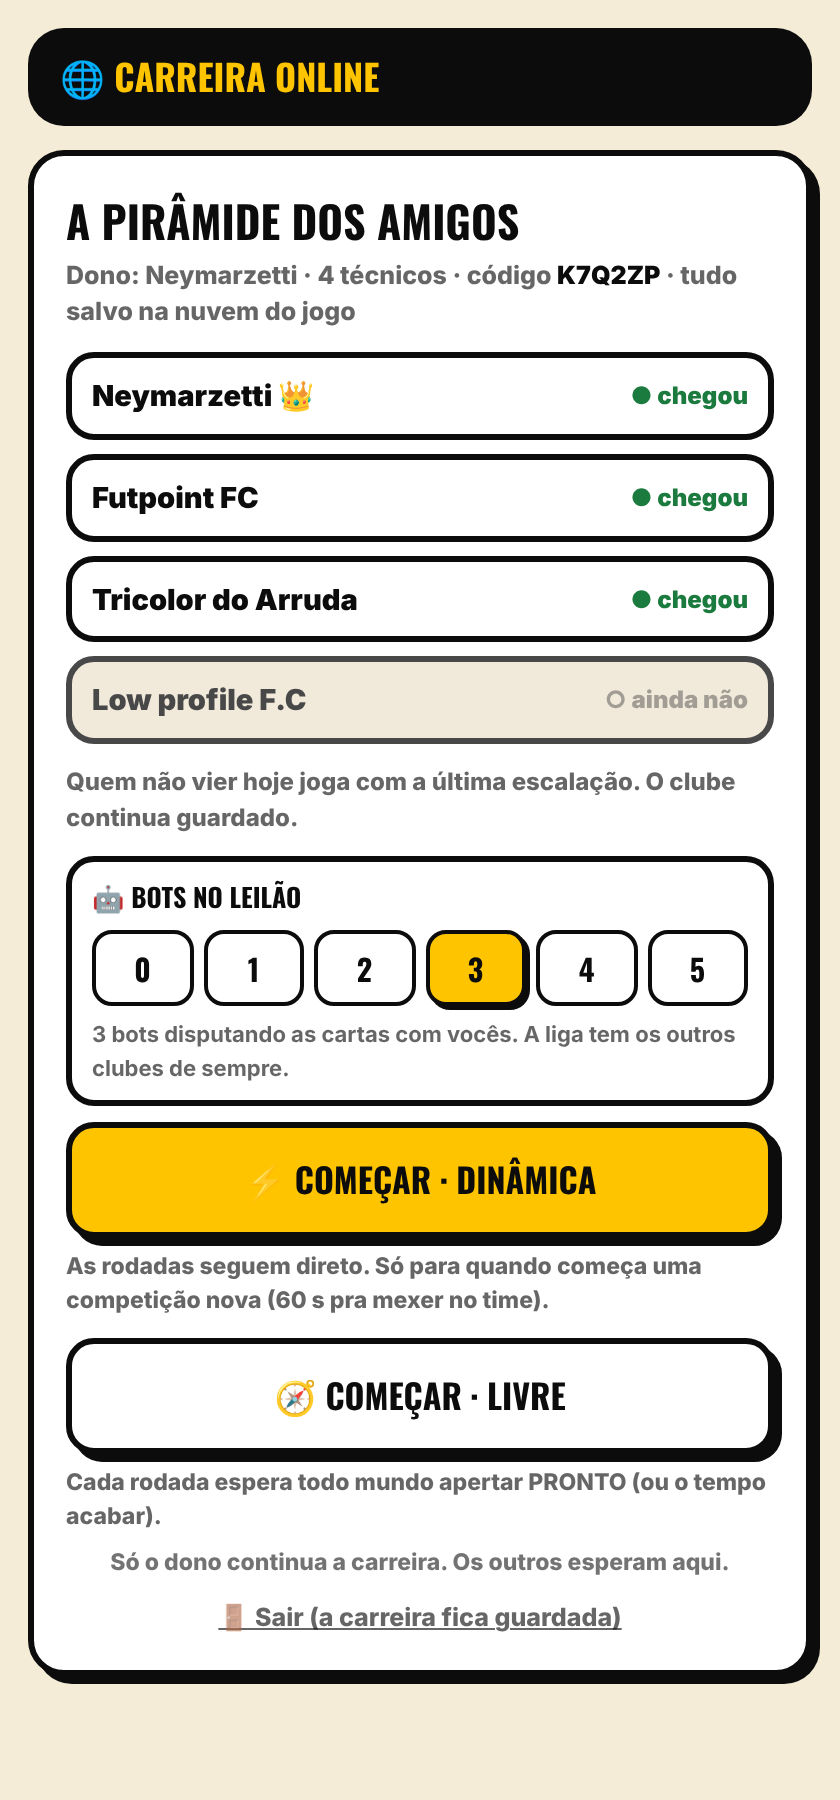
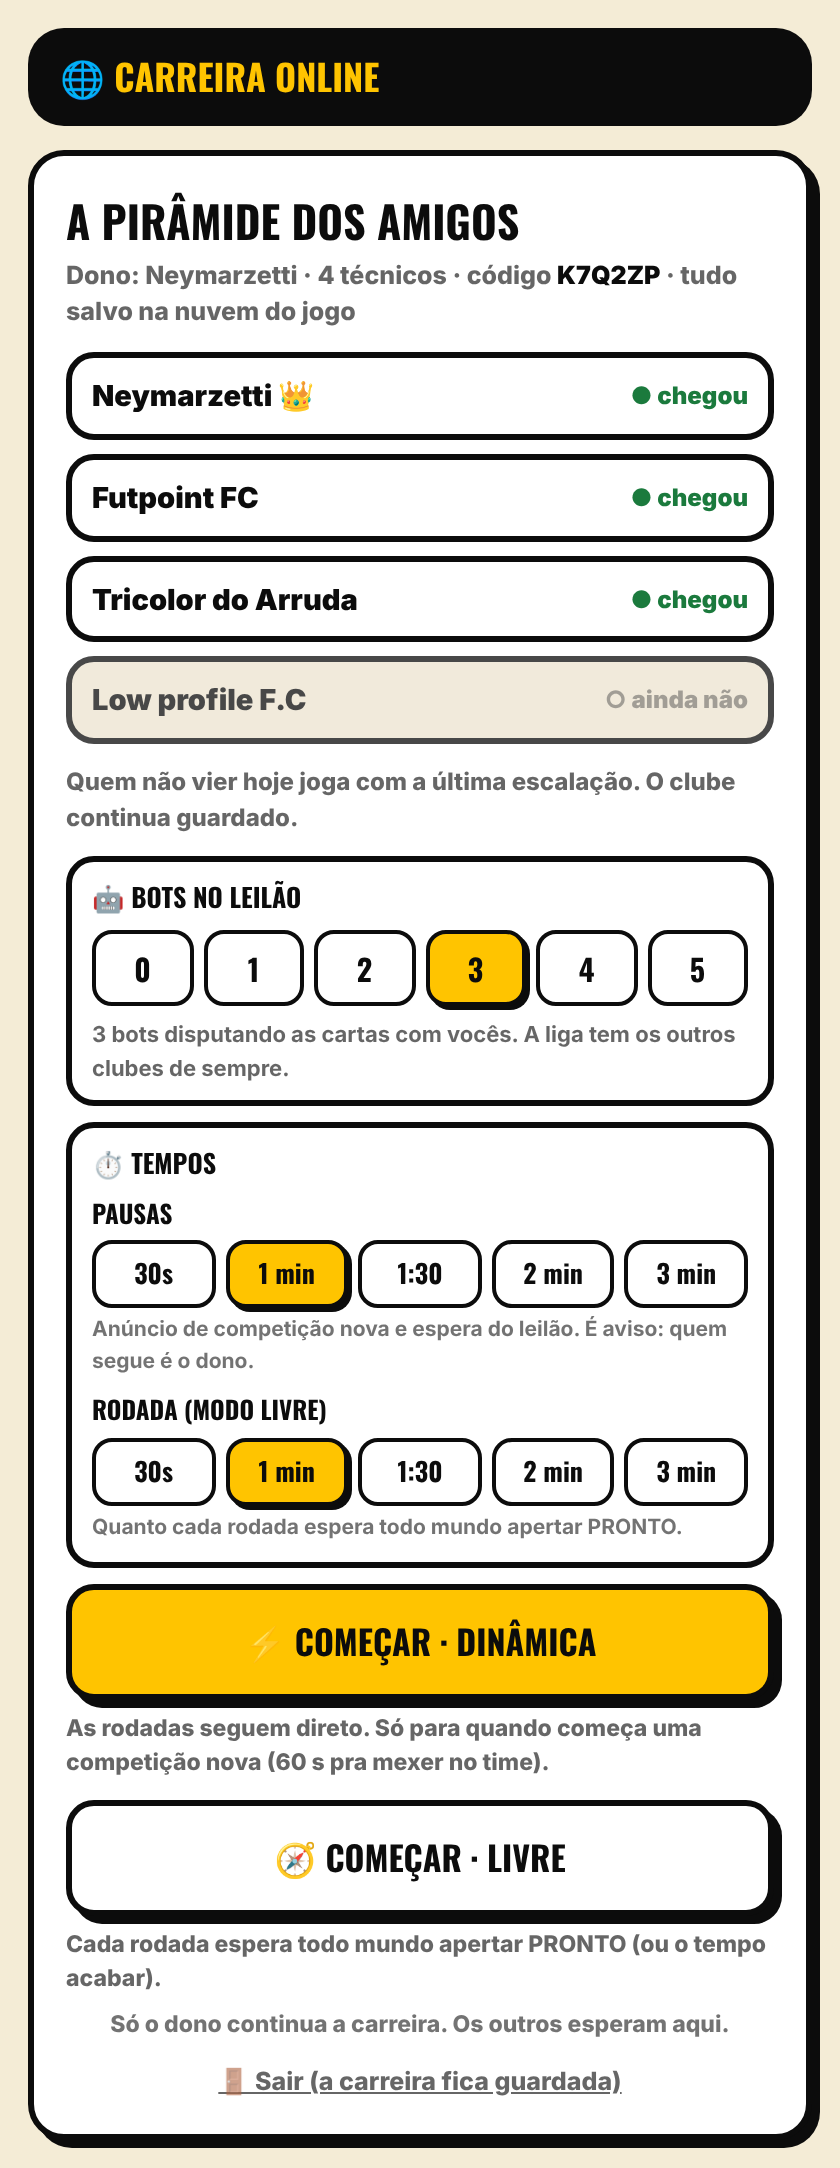
Carreira online: dono escolhe os tempos (pausas e rodada do modo Livre) na largada e depois, nas configurações dele
Claude-Session: https://claude.ai/code/session_018Ap1zPCMVL9XeZJN3u93ZA

diff --git a/src/escalacao/co2-telas.tsx b/src/escalacao/co2-telas.tsx
@@ -9,7 +9,7 @@ import type { EscState } from './types'
 import {
   useCo2, co2Abrir, co2Fechar, co2Criar, co2Entrar, co2MinhasSalas, co2Continuar, co2Mundo, co2Envia, co2PodeCriar,
   co2LeGavetas, co2Gaveta, co2Pronto, co2Comecar, co2Apito, co2Ritmo, co2EncerrarDia, co2SalvaPrivado, co2LePrivado, co2Agora,
-  type Co2Sala,
+  type Co2Sala, type Co2Mundo, TEMPOS_OPCOES, tempoPausa, tempoRodada,
 } from './co2'
 import { minhaGaveta, co2Fechamento, type EntradasMundo, type GavetaPublica, type Fechamento } from './carreira-online-v2'
 import { useMotor2Carreira, copaBrasilLiberada } from './sport'
@@ -88,6 +88,7 @@ export function Co2Espera({ salaId, onSair }: { salaId: string; onSair: () => vo
   const [indo, setIndo] = useState(false)
   // 🤖 26/11 (Diego: *"opção nas config do host p ele decidir se deixa nenhum bot ou deixa até 5 bots"*): quantos bots disputam o leilão
   const [bots, setBots] = useState(3)
+  const [tempos, setTempos] = useState<{ pausa: number; rodada: number }>({ pausa: 60, rodada: 60 })
   useEffect(() => { void co2Abrir(salaId) }, [salaId])
   const sala = sn.sala
   const souDono = !!sala && sala.dono === sn.uid
@@ -123,7 +124,7 @@ export function Co2Espera({ salaId, onSair }: { salaId: string; onSair: () => vo
         const ordem = clubes.map(c => c.user_id)
         const eu = ordem.indexOf(sn.uid ?? '')
         dispatch({ type: 'START_CAREER_SOLO', teamName: clubes[eu]?.nome ?? 'Meu Time', formation: '4-3-3', rivals: bots, co2: { sala: sala.id, nomes: clubes.map(c => c.nome), assento: eu } })
-        await co2Mundo('virada', 1, 0, { ordem, v: 1, modo, bots })
+        await co2Mundo('virada', 1, 0, { ordem, v: 1, modo, bots, tempos })
         return
       }
       const sv = local ?? await lePrivado()
@@ -174,8 +175,9 @@ export function Co2Espera({ salaId, onSair }: { salaId: string; onSair: () => vo
                 </div>
                 <p style={{ fontWeight: 700, fontSize: 11, margin: '6px 0 0', color: 'rgba(0,0,0,.6)' }}>{bots === 0 ? tr('Sem bots: o leilão é só entre vocês.', 'No bots: the auction is just between you.') : tr(`${bots} bot${bots > 1 ? 's' : ''} disputando as cartas com vocês. A liga tem os outros clubes de sempre.`, `${bots} bot${bots > 1 ? 's' : ''} bidding against you. The league has the usual other clubs.`)}{bots === 0 && clubes.length === 2 ? tr(' Com 2 técnicos, sobra muita carta pro Monte.', ' With 2 managers, lots of cards go to the pile.') : ''}</p>
               </div>
+              <Co2Tempos valor={tempos} onMuda={setTempos} />
               <button disabled={indo} onClick={() => void comecar('dinamica')} style={botao(GOLD)}>⚡ {tr('Começar · Dinâmica', 'Start · Dynamic')}</button>
-              <p style={{ fontWeight: 800, fontSize: 11.5, margin: '-2px 0 2px', color: 'rgba(0,0,0,.6)' }}>{tr('As rodadas seguem direto. Só para quando começa uma competição nova (60 s pra mexer no time).', 'Rounds run back to back. Only pauses when a new competition starts (60 s to tweak the team).')}</p>
+              <p style={{ fontWeight: 800, fontSize: 11.5, margin: '-2px 0 2px', color: 'rgba(0,0,0,.6)' }}>{tr(`As rodadas seguem direto. Só para quando começa uma competição nova (${tempos.pausa} s pra mexer no time).`, `Rounds run back to back. Only pauses when a new competition starts (${tempos.pausa} s to tweak the team).`)}</p>
               <button disabled={indo} onClick={() => void comecar('livre')} style={botao('#fff')}>🧭 {tr('Começar · Livre', 'Start · Free')}</button>
               <p style={{ fontWeight: 800, fontSize: 11.5, margin: '-2px 0 0', color: 'rgba(0,0,0,.6)' }}>{tr('Cada rodada espera todo mundo apertar PRONTO (ou o tempo acabar).', 'Each round waits for everyone to hit READY (or the time to run out).')}</p>
             </div>
@@ -207,7 +209,6 @@ async function lePrivado(): Promise<EscState | null> {
 }
 
 // ═══ DENTRO DA TEMPORADA: a barra do PRONTO + o motor que segue o relógio do dono ═══════════════════════════════════
-const PRAZO_S = 60
 const PRAZO_DINAMICA_S = 15 // o banco aceita no mínimo 15 s; na Dinâmica o dono começa logo que a rodada anterior terminou de animar
 
 export function Co2Temporada({ entradasLocais, round, roundReady, seasonOver, onEscalacao }: {
@@ -278,7 +279,7 @@ export function Co2Temporada({ entradasLocais, round, roundReady, seasonOver, on
   // 🏁 quem comanda: rodada terminou de animar → apito (próxima rodada entra no PREPARO)
   useEffect(() => {
     if (!comanda || !sala || sala.fase !== 'jogando' || !roundReady || round !== sala.rodada + 1) return
-    void co2Apito(sala.rodada + 1, dinamica ? PRAZO_DINAMICA_S : PRAZO_S)
+    void co2Apito(sala.rodada + 1, dinamica ? PRAZO_DINAMICA_S : tempoRodada(co2Agora().mundo))
   }, [comanda, sala, roundReady, round, dinamica])
 
   // ⏱ quem comanda: todo mundo PRONTO (ou acabou o tempo, no automático) → começa
@@ -365,6 +366,7 @@ export function Co2Temporada({ entradasLocais, round, roundReady, seasonOver, on
             {!dinamica && <button onClick={() => void co2Ritmo(!sala.auto, sala.velocidade, sala.pausado)} style={{ ...botao('#fff'), fontSize: 12, padding: '8px' }}>{sala.auto ? tr('Automático ligado', 'Auto on') : tr('Automático desligado', 'Auto off')}</button>}
             <button onClick={() => void co2EncerrarDia()} disabled={sala.fase !== 'preparo'} style={{ ...botao('#fff'), fontSize: 12, padding: '8px' }}>🌙 {tr('Encerrar o dia', 'End the day')}</button>
           </div>
+          <Co2TemposDono />
           <p style={{ fontWeight: 800, fontSize: 11, margin: '6px 0 0', color: 'rgba(0,0,0,.55)' }}>{dinamica ? tr('⚡ Dinâmica · as rodadas seguem direto. Pausar segura a carreira pra todo mundo.', '⚡ Dynamic · rounds run back to back. Pause holds the career for everyone.') : sala.auto ? tr('Automático ligado · quem não apertar joga com a escalação que já está.', 'Auto on · whoever doesn\'t press plays with the current lineup.') : tr('Automático desligado · a rodada só começa quando você apertar.', 'Auto off · the round only starts when you press.')}</p>
         </div>
       )}
@@ -388,7 +390,7 @@ export function useCo2FimDaVirada() {
     const poeM2 = m2Liberado && !!mm && mm.m2 == null
     const poeFim = !!mm && !mm.fim // 🏆 26/11: a regra da copa do fim de temporada sai do DONO, igual pra todo aparelho
     const carimbo = mm && (poeM2 || poeFim) ? { ...mm, ...(poeM2 ? { m2: state.seasonNo ?? 1 } : {}), ...(poeFim ? { fim: { copaBR: copaBrasilLiberada() } } : {}) } : null
-    void co2Mundo('preparo', state.seasonNo ?? 1, 0, carimbo, mm?.modo === 'dinamica' ? 60 : 90) // ⚡ Dinâmica: 60 s de anúncio na estreia (aviso; o dono segue)
+    void co2Mundo('preparo', state.seasonNo ?? 1, 0, carimbo, mm?.modo === 'dinamica' ? tempoPausa(mm) : Math.max(90, tempoRodada(mm))) // ⚡ Dinâmica: o tempo de pausa que o dono escolheu (aviso; o dono segue)
   }, [state.co2?.comanda, state.screen, sn.sala?.fase, state.seasonNo, m2Liberado, state.round])
 }
 
@@ -443,7 +445,7 @@ export function Co2ViradaEspera() {
   useEffect(() => {
     if (!comanda || !dinamica || !sala || sala.fase !== 'virada' || sala.prazo || relogioRef.current) return
     relogioRef.current = true
-    void co2Mundo('virada', null, null, null, 60)
+    void co2Mundo('virada', null, null, null, tempoPausa(sn.mundo))
   }, [comanda, dinamica, sala])
   const restante = dinamica && sala?.prazo ? Math.max(0, Math.round((new Date(sala.prazo).getTime() - agora) / 1000)) : null
   const ordem = sn.mundo?.ordem ?? []
@@ -540,6 +542,52 @@ export function Co2Anuncio({ restante, comanda, onSeguir }: { restante: number |
       <div style={{ display: 'inline-block', background: '#fff', color: INK, border: `3px solid ${INK}`, borderRadius: 14, boxShadow: `3px 3px 0 ${GOLD}`, padding: '4px 18px', ...OSWALD, fontWeight: 900, fontSize: 34 }}>{mm}</div>
       <p style={{ fontWeight: 800, fontSize: 12.5, margin: '10px 0 12px', color: 'rgba(255,255,255,.85)' }}>{tr('Dá tempo de arrumar o time nas abas. ', 'There\'s time to sort your team in the tabs. ')}{comanda ? tr('Você começa a temporada quando quiser.', 'You start the season whenever you want.') : tr('Quem começa é o dono.', 'The owner starts it.')}</p>
       {botaoDono}
+    </div>
+  )
+}
+
+// ⏱ 27/11 (Diego: *"coloque também nas configurações do host p ele escolher os tempos"*)
+export function Co2Tempos({ valor, onMuda }: { valor: { pausa: number; rodada: number }; onMuda: (v: { pausa: number; rodada: number }) => void }) {
+  const linha = (titulo: string, sub: string, k: 'pausa' | 'rodada') => (
+    <div style={{ marginBottom: 8 }}>
+      <p style={{ ...OSWALD, fontWeight: 900, fontSize: 12.5, margin: '0 0 4px', textTransform: 'uppercase' }}>{titulo}</p>
+      <div style={{ display: 'grid', gridTemplateColumns: `repeat(${TEMPOS_OPCOES.length}, 1fr)`, gap: 5 }}>
+        {TEMPOS_OPCOES.map(n => (
+          <button key={n} onClick={() => onMuda({ ...valor, [k]: n })} style={{ border: `2.5px solid ${INK}`, borderRadius: 10, padding: '5px 0', fontWeight: 900, fontSize: 13, background: valor[k] === n ? GOLD : '#fff', color: INK, cursor: 'pointer', boxShadow: valor[k] === n ? `2px 2px 0 ${INK}` : 'none', ...OSWALD }}>{n < 60 ? `${n}s` : n % 60 ? `${Math.floor(n / 60)}:${n % 60}` : `${n / 60} min`}</button>
+        ))}
+      </div>
+      <p style={{ fontWeight: 700, fontSize: 10.5, margin: '3px 0 0', color: 'rgba(0,0,0,.55)' }}>{sub}</p>
+    </div>
+  )
+  return (
+    <div style={{ border: `3px solid ${INK}`, borderRadius: 14, padding: '8px 10px 2px', background: '#fff' }}>
+      <p style={{ ...OSWALD, fontWeight: 900, fontSize: 13, margin: '0 0 6px', textTransform: 'uppercase' }}>⏱ {tr('Tempos', 'Timers')}</p>
+      {linha(tr('Pausas', 'Breaks'), tr('Anúncio de competição nova e espera do leilão. É aviso: quem segue é o dono.', 'New competition and auction wait. Just a warning: the owner moves on.'), 'pausa')}
+      {linha(tr('Rodada (modo Livre)', 'Round (Free mode)'), tr('Quanto cada rodada espera todo mundo apertar PRONTO.', 'How long each round waits for everyone to hit READY.'), 'rodada')}
+    </div>
+  )
+}
+
+/** O mesmo controle, dentro da carreira, pro dono mudar depois (vale da próxima pausa/rodada em diante). */
+function Co2TemposDono() {
+  const sn = useCo2()
+  const [aberto, setAberto] = useState(false)
+  const [msg, setMsg] = useState('')
+  const sala = sn.sala, mundo = sn.mundo
+  if (!sala || !mundo) return null
+  const atual = { pausa: tempoPausa(mundo), rodada: tempoRodada(mundo) }
+  // só grava fora do jogo rolando (gravar o mundo reinicia o relógio da fase); o relógio que está correndo continua igual
+  const podeMudar = sala.fase === 'preparo' || sala.fase === 'virada'
+  const muda = async (v: { pausa: number; rodada: number }) => {
+    if (!podeMudar) { setMsg(tr('Espere a rodada acabar pra mudar.', 'Wait for the round to end to change it.')); return }
+    const restante = sala.prazo ? Math.max(15, Math.round((new Date(sala.prazo).getTime() - Date.now()) / 1000)) : null
+    const r = await co2Mundo(sala.fase as 'preparo' | 'virada', null, null, { ...(mundo as Co2Mundo), tempos: v }, restante)
+    setMsg(r === 'ok' ? tr('✅ Salvo. Vale da próxima vez.', '✅ Saved. Applies next time.') : tr('Não deu agora. Tenta de novo.', 'Didn\'t work. Try again.'))
+  }
+  return (
+    <div style={{ marginTop: 8 }}>
+      <button onClick={() => setAberto(a => !a)} style={{ ...botao('#fff'), fontSize: 12, padding: '8px' }}>⚙ {tr('Tempos', 'Timers')} · {atual.pausa}s / {atual.rodada}s</button>
+      {aberto && <div style={{ marginTop: 8 }}><Co2Tempos valor={atual} onMuda={v => void muda(v)} />{msg && <p style={{ fontWeight: 800, fontSize: 11, margin: '4px 0 0' }}>{msg}</p>}</div>}
     </div>
   )
 }

diff --git a/src/escalacao/co2.ts b/src/escalacao/co2.ts
@@ -15,7 +15,7 @@ export type Co2Sala = {
 }
 export type Co2Clube = { sala: string; assento: number; user_id: string; nome: string; pronto_rodada: number | null; na_sala_em: string | null; publico?: Record<string, unknown> }
 /** O que é de todos e não muda a cada rodada: a ordem dos clubes de gente (uid por posição = id do técnico no jogo). */
-export type Co2Mundo = { ordem: string[]; v?: number; /** 🔀 26/11 (Diego): ⚡ Dinâmica = rodadas seguem direto · 🧭 Livre = PRONTO a cada rodada (o padrão de antes) */ modo?: 'dinamica' | 'livre'; /** 🤖 26/11: quantos bots disputam o leilão (0–5, o dono escolhe na largada) */ bots?: number; /** 🏆 26/11: regras do fim da temporada carimbadas pelo dono (as mesmas em todo aparelho, nunca da conta de cada um) */ fim?: { copaBR: boolean }; /** 🏆 26/11: a escalação da copa do fim, congelada pelo DONO (todo aparelho usa a mesma) */ copaXi?: { season: number; xi: Record<number, string[]> }; /** ⚽🧠 temporada a partir da qual o motor novo decide os jogos de gente (a mesma pra todo aparelho; o dono grava no preparo) */ m2?: number }
+export type Co2Mundo = { ordem: string[]; v?: number; /** 🔀 26/11 (Diego): ⚡ Dinâmica = rodadas seguem direto · 🧭 Livre = PRONTO a cada rodada (o padrão de antes) */ modo?: 'dinamica' | 'livre'; /** 🤖 26/11: quantos bots disputam o leilão (0–5, o dono escolhe na largada) */ bots?: number; /** ⏱ 27/11 (Diego: *"nas configurações do host p ele escolher os tempos"*): pausa = anúncio/virada · rodada = PRONTO da 🧭 Livre (segundos) */ tempos?: { pausa: number; rodada: number }; /** 🏆 26/11: regras do fim da temporada carimbadas pelo dono (as mesmas em todo aparelho, nunca da conta de cada um) */ fim?: { copaBR: boolean }; /** 🏆 26/11: a escalação da copa do fim, congelada pelo DONO (todo aparelho usa a mesma) */ copaXi?: { season: number; xi: Record<number, string[]> }; /** ⚽🧠 temporada a partir da qual o motor novo decide os jogos de gente (a mesma pra todo aparelho; o dono grava no preparo) */ m2?: number }
 
 type Snap = { sala: Co2Sala | null; clubes: Co2Clube[]; uid: string | null; aqui: string[]; mundo: Co2Mundo | null }
 let snap: Snap = { sala: null, clubes: [], uid: null, aqui: [], mundo: null }
@@ -214,3 +214,8 @@ export async function co2LeVirada(temporada: number): Promise<string | null> {
 }
 /** 📸 bancada das fotos/testes (`scripts/foto-co2.mjs`): finge quem sou eu e quem está na sala. Não é usada pelo jogo. */
 export function _bancadaCo2(p: Partial<Snap>): void { muda(p) }
+
+/** ⏱ os tempos que o dono escolheu (padrão 60 s cada). O banco aceita de 15 a 300 s. */
+export const TEMPOS_OPCOES = [30, 60, 90, 120, 180] as const
+export const tempoPausa = (m: Co2Mundo | null | undefined): number => m?.tempos?.pausa ?? 60
+export const tempoRodada = (m: Co2Mundo | null | undefined): number => m?.tempos?.rodada ?? 60

diff --git a/docs/pendencias.md b/docs/pendencias.md
@@ -56,6 +56,7 @@ Diego pediu levar as melhorias do Brasil Oficial para a tradicional. Conferidos 
   Teste: 5 bots = 57 compras de máquina na virada · 0 bots = 0. O bot que perde jogador repõe com sobra real de over parecido.
 - ✅ (27/11) notícia de todo jogador que um clube de gente tirou de bot ("🔨 X levou Y do Z por N") · 🎬 ⚡ Dinâmica: anúncio de cinema
   (opção C) na ESTREIA de cada temporada, 60 s de aviso, só o dono segue (confirma antes do tempo). Foto `scripts/mockups/co2-anuncio-estreia.png`.
+- ✅ (27/11) anúncio da estreia fecha no ✕ e vira faixa fininha (cada um livre nas abas) · ⚙ dono escolhe os TEMPOS (pausas e rodada da Livre: 30 s–3 min) na largada e muda depois (`Co2TemposDono`, só fora do jogo rolando).
 - ⏳ falta: sondar de amigo, anúncio C também nas copas (hoje a copa do fim roda em cada aparelho), dia dos contratos, teste com 2 contas.
 - Tudo em `docs/carreira-online-logistica.md` (onde está, os 4 buracos, proposta espelhada na Liga Draft, decisões, ordem de trabalho).
 - Testes da v2 verdes depois da publicação do Codex (`npm run carreira-online` e `npm run carreira-online-fluxo`).
